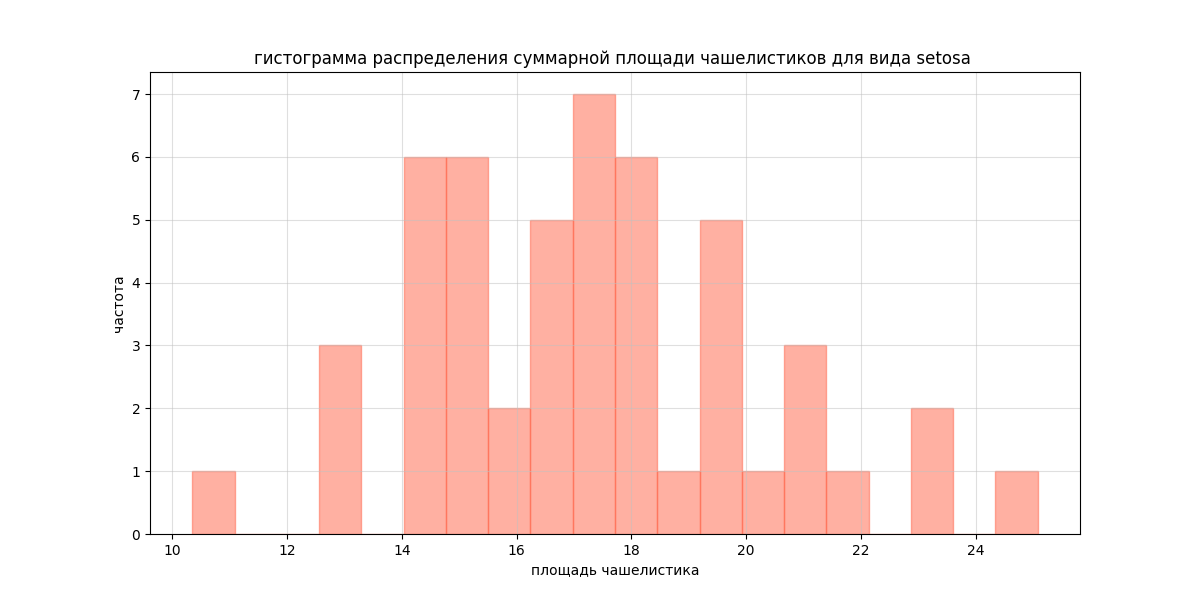
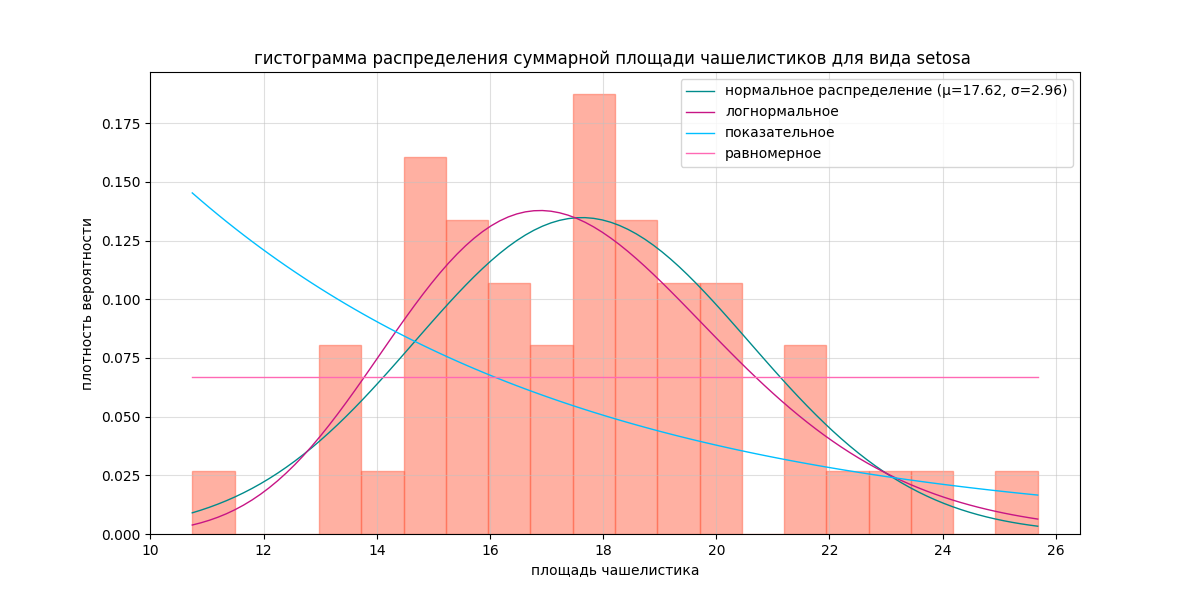
ну и какие же у нас распределения бля

diff --git a/main.py b/main.py
@@ -11,10 +11,8 @@
  box-plot суммарной площади чашелистика и лепестка для всей совокупности и каждого вида.
 """
 import numpy as np
-import matplotlib
 import matplotlib.pyplot as plt
-
-matplotlib.use('Agg')
+from scipy.stats import norm, lognorm, gamma, expon, uniform
 
 irises_species = dict()  # мапа для разделения по видам
 irises = []  # просто в целом список всех ирисов
@@ -125,16 +123,37 @@ def custom_boxplot(data, title, specie):
 
 
 def draw_histogram(iris_areas, sepal=True, specie=''):
+    print(list(sorted(iris_areas)))
     plt.figure(figsize=(12, 6))
 
     gist_color = 'tomato' if sepal else 'pink'
     gist_title = "гистограмма распределения суммарной площади "
     gist_type = "чашелистиков" if sepal else 'лепестков'
-    plt.hist(iris_areas, bins=20, color=gist_color, alpha=0.5, edgecolor=gist_color)
+
+    plt.hist(iris_areas, bins=20, color=gist_color, alpha=0.5, edgecolor=gist_color, density=True)
+
+    mu, sigma = np.mean(iris_areas), np.std(iris_areas)
+    shape_lognorm, loc_lognorm, scale_lognorm = lognorm.fit(iris_areas, floc=0)
+    shape_gamma, loc_gamma, scale_gamma = gamma.fit(iris_areas)
+    loc_exp, scale_exp = expon.fit(iris_areas)
+    loc_uniform, scale_uniform = uniform.fit(iris_areas)
+
+    # Создание оси X
+    x = np.linspace(min(iris_areas), max(iris_areas), 100)
+
+    plt.plot(x, norm.pdf(x, mu, sigma), linewidth=1, color='darkcyan', label=f'нормальное распределение (μ={mu:.2f}, σ={sigma:.2f})')
+    plt.plot(x, lognorm.pdf(x, shape_lognorm, loc_lognorm, scale_lognorm), color='MediumVioletRed', linewidth=1, label='логнормальное')
+    plt.plot(x, expon.pdf(x, loc_exp, scale_exp), color='DeepSkyBlue', linewidth=1, label='показательное')
+    plt.plot(x, uniform.pdf(x, loc_uniform, scale_uniform), 'hotpink', linewidth=1, label='равномерное')
+
+
+
     plt.title(
         f"{gist_title + gist_type} для вида {specie} " if specie else f"{gist_title + gist_type} для всей выборки")
     plt.xlabel('площадь чашелистика' if sepal else 'площадь лепестка')
-    plt.ylabel('частота')
+    plt.ylabel('плотность вероятности')
+    # plt.xscale('log')
+    plt.legend()
 
     plt.grid(True, color="silver", alpha=0.5)
     filename = "sepal_squares" if sepal else "petal_squares"
@@ -211,8 +230,9 @@ if __name__ == "__main__":
               f"{get_sample_quantile(v, 'petal_length', 'petal_width', 0.4)}")
         sepal_areas = [i['sepal_length'] * i['sepal_width'] for i in v]
         petal_areas = [i['petal_length'] * i['petal_width'] for i in v]
+        # irises_areas = [sepal_areas[j] + petal_areas[j] for j in range(len(sepal_areas))]
         draw_histogram(sepal_areas, True, k)
-        draw_histogram(petal_areas, False, k)
+        draw_histogram(petal_areas, True, k)
         print()
 
         # Эмпирические функции распределения для каждого вида цветка
